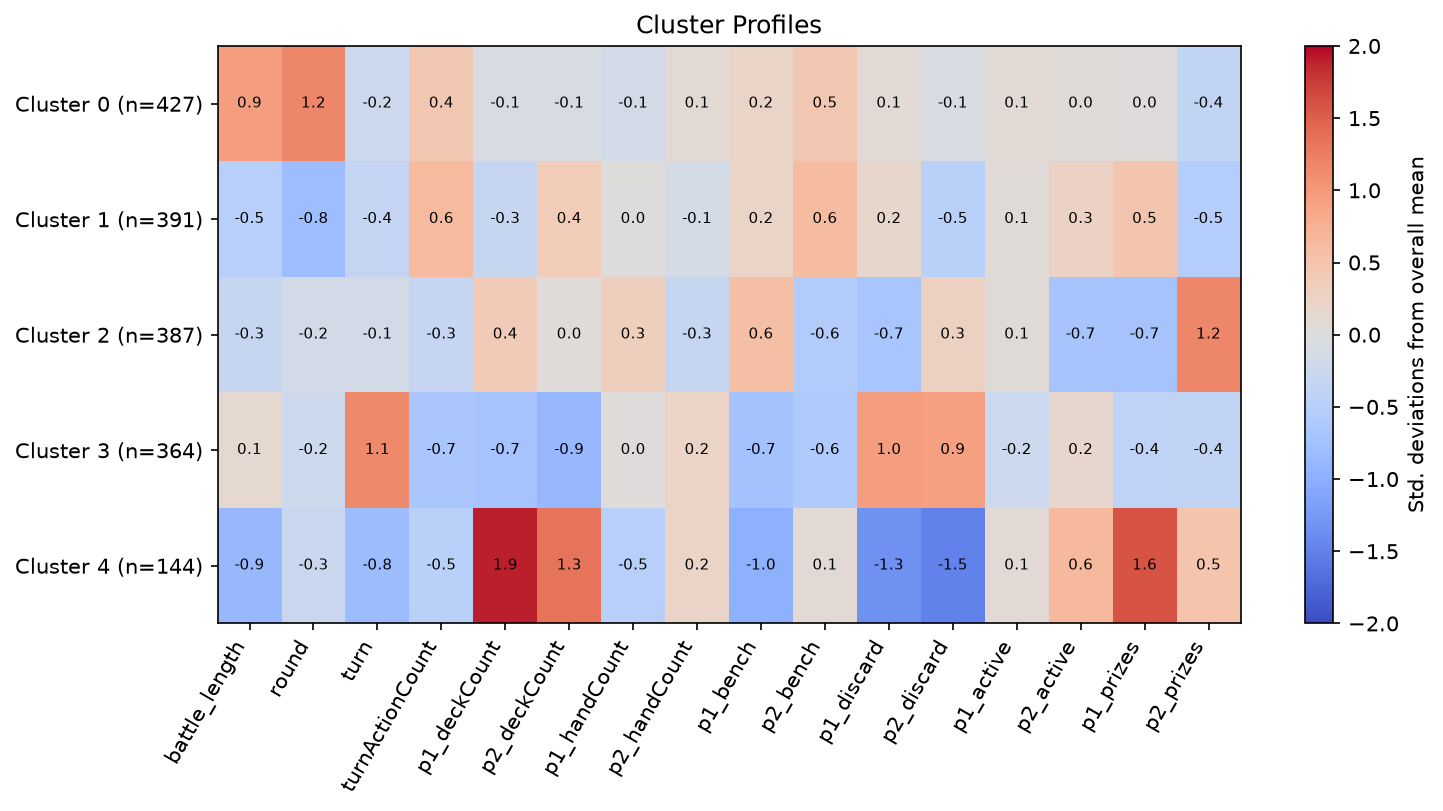
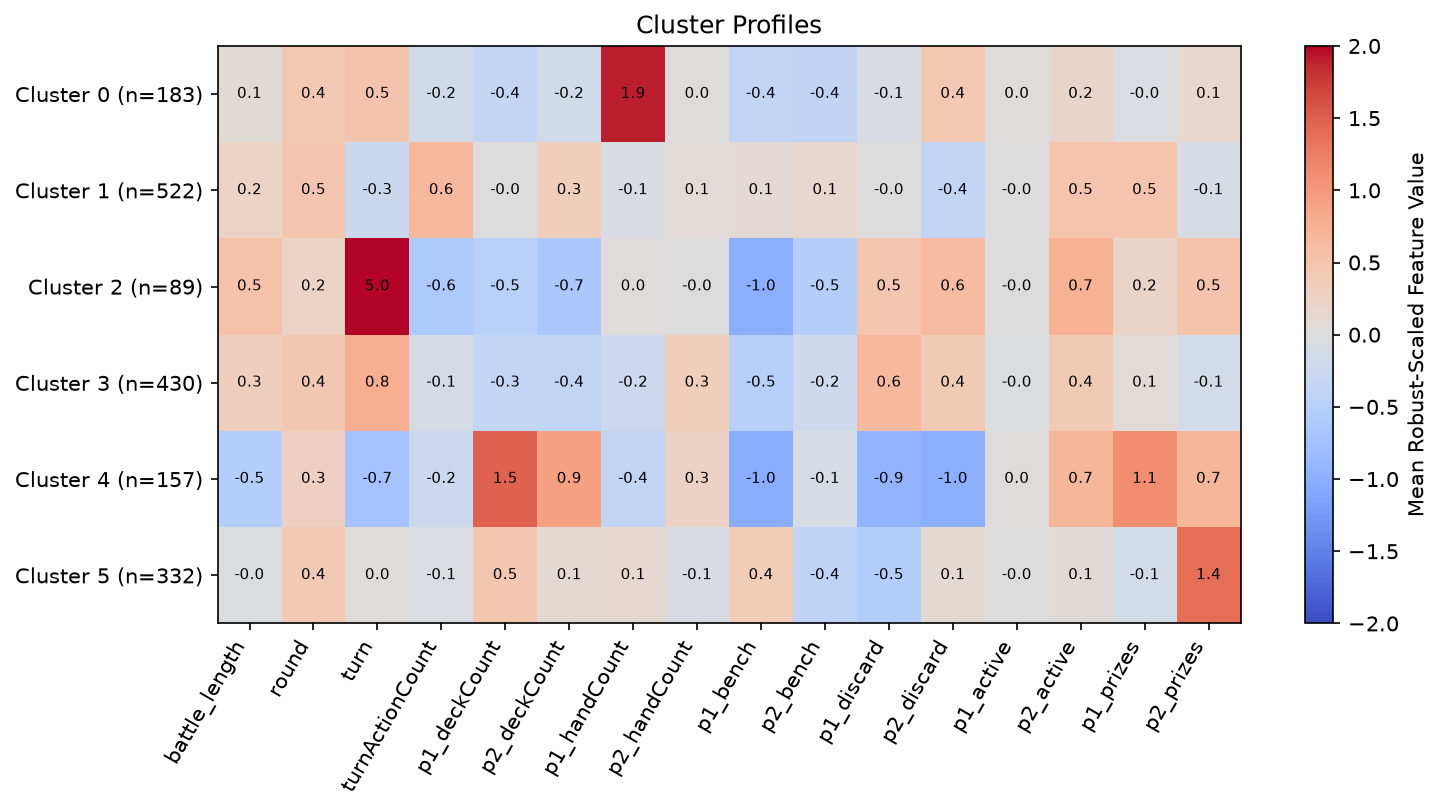
added correlation matrix

diff --git a/src/3_analysis/correlation_matrix.py b/src/3_analysis/correlation_matrix.py
@@ -1,0 +1,75 @@
+from pathlib import Path
+import pandas as pd
+import matplotlib.pyplot as plt
+import seaborn as sns
+
+ROOT = Path(__file__).resolve().parents[2]
+PROCESSED = ROOT / "dataset" / "processed"
+OUT = ROOT / "outputs" / "correlation"
+OUT.mkdir(parents=True, exist_ok=True)
+
+df = pd.read_csv(PROCESSED / "final_battles.csv")
+X = df.drop(columns=["episode_id", "winner_p1", "winner_p2"])
+
+corr = X.corr()
+
+THRESHOLD = 0.80
+
+print(f"Feature pairs with |correlation| >= {THRESHOLD}:")
+print("-" * 50)
+
+found = False
+pairs = set()
+for col_a in corr.columns:
+    for col_b in corr.columns:
+        if col_a >= col_b:          # skip self and duplicates
+            continue
+        val = corr.loc[col_a, col_b]
+        if abs(val) >= THRESHOLD:
+            pairs.add((col_a, col_b, round(val, 3)))
+            found = True
+
+if not found:
+    print(f"None found above {THRESHOLD}.")
+else:
+    for col_a, col_b, val in sorted(pairs, key=lambda x: -abs(x[2])):
+        flag = " <-- consider dropping one" if abs(val) >= 0.90 else ""
+        print(f"  {col_a:25s}  {col_b:25s}  r = {val:+.3f}{flag}")
+
+print()
+
+print("Full correlation matrix:")
+print(corr.round(2).to_string())
+print()
+
+if pairs:
+    pair_df = pd.DataFrame(pairs, columns=["feature_a", "feature_b", "correlation"])
+    pair_df = pair_df.sort_values("correlation", key=abs, ascending=False)
+    pair_df.to_csv(OUT / "high_correlation_pairs.csv", index=False)
+    print(f"High-correlation pairs saved to {OUT / 'high_correlation_pairs.csv'}")
+
+
+fig, ax = plt.subplots(figsize=(12, 10))
+mask = pd.DataFrame(False, index=corr.index, columns=corr.columns)
+for i in range(len(corr)):
+    for j in range(i + 1, len(corr)):
+        pass                        
+
+sns.heatmap(
+    corr,
+    annot=True,
+    fmt=".2f",
+    cmap="coolwarm",
+    vmin=-1,
+    vmax=1,
+    linewidths=0.5,
+    ax=ax,
+    annot_kws={"size": 7},
+)
+ax.set_title("Feature Correlation Matrix", fontsize=13)
+plt.xticks(rotation=45, ha="right")
+plt.yticks(rotation=0)
+fig.savefig(OUT / "correlation_matrix.png", dpi=150, bbox_inches="tight")
+print(f"Heatmap saved to {OUT / 'correlation_matrix.png'}")
+
+plt.show()
